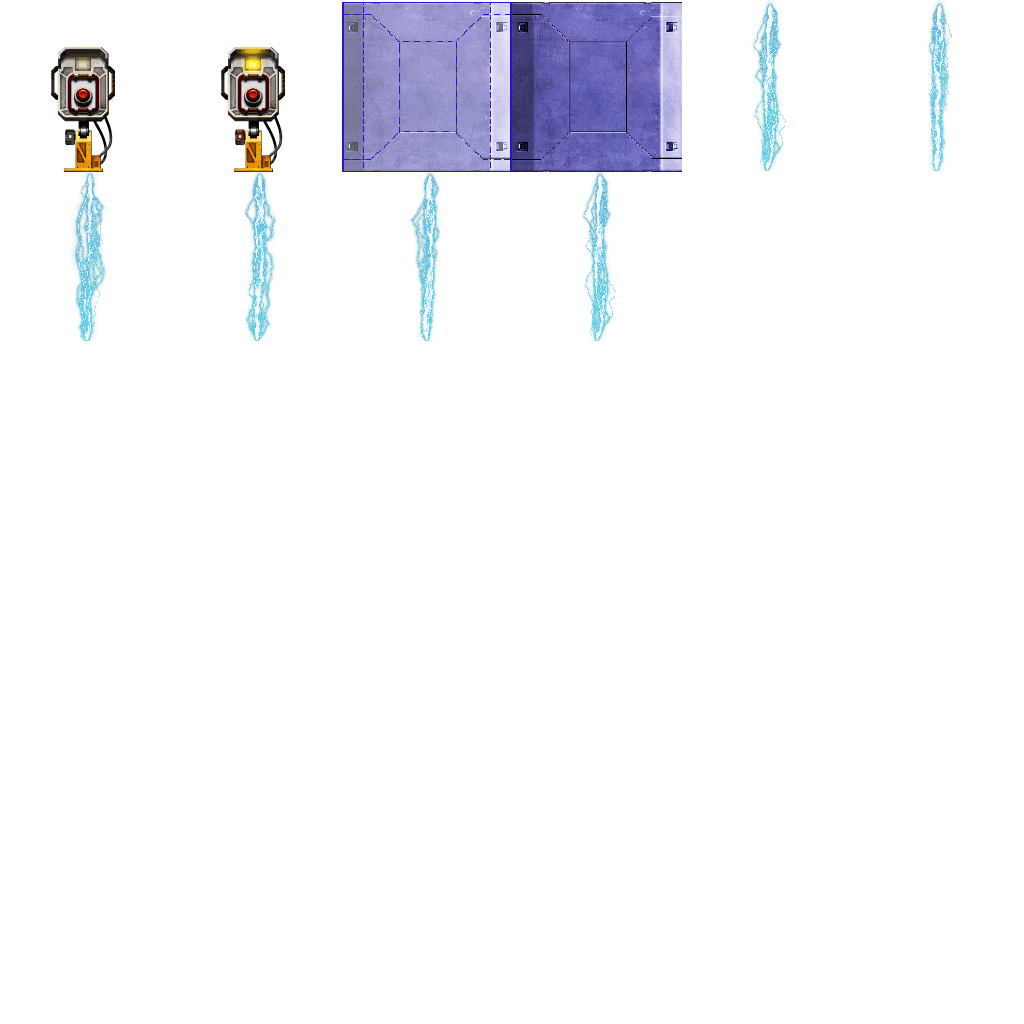
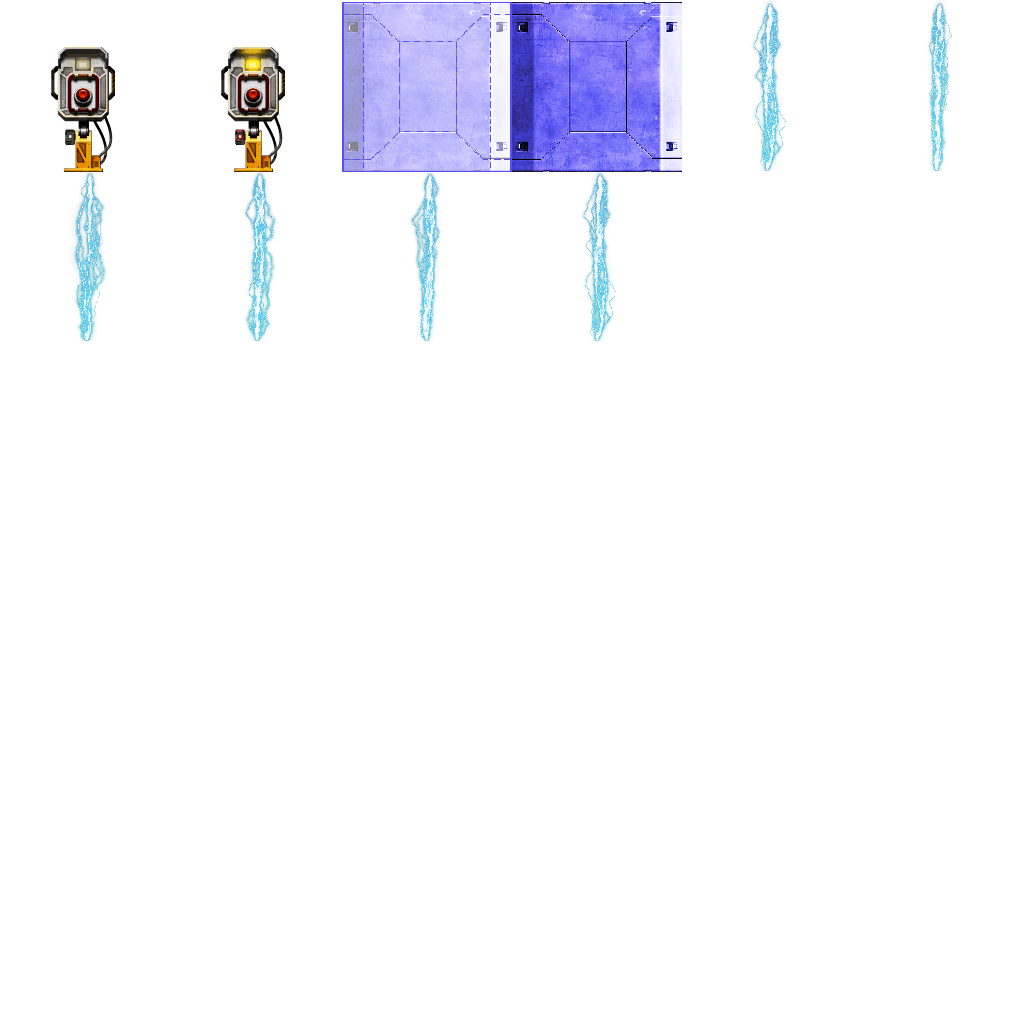
Changed Color in Blicking box and Fixed Top collisions

Changed region(s): [[0.3125, 0.0, 0.6875, 0.1875]]

diff --git a/DayBreak_Project/Motor2D/j1Player.cpp b/DayBreak_Project/Motor2D/j1Player.cpp
@@ -219,7 +219,7 @@ void j1Player::OnCollision(Collider *c1, Collider *c2) {
 		if (direction.y != 0) {
 
 			//Checking Y Axis Collisions
-			if (c1->rect.y <= c2->rect.y + c2->rect.h && c1->rect.y >= c2->rect.y + c2->rect.y - velocity.y) { //direction.y == 1
+			if (c1->rect.y <= c2->rect.y + c2->rect.h && c1->rect.y >= c2->rect.y + c2->rect.h - velocity.y) { //direction.y == 1
 				velocity.y = 0;
 				position.y = c1->rect.y + c2->rect.h - (c1->rect.y - c2->rect.y) + 3;
 			}
